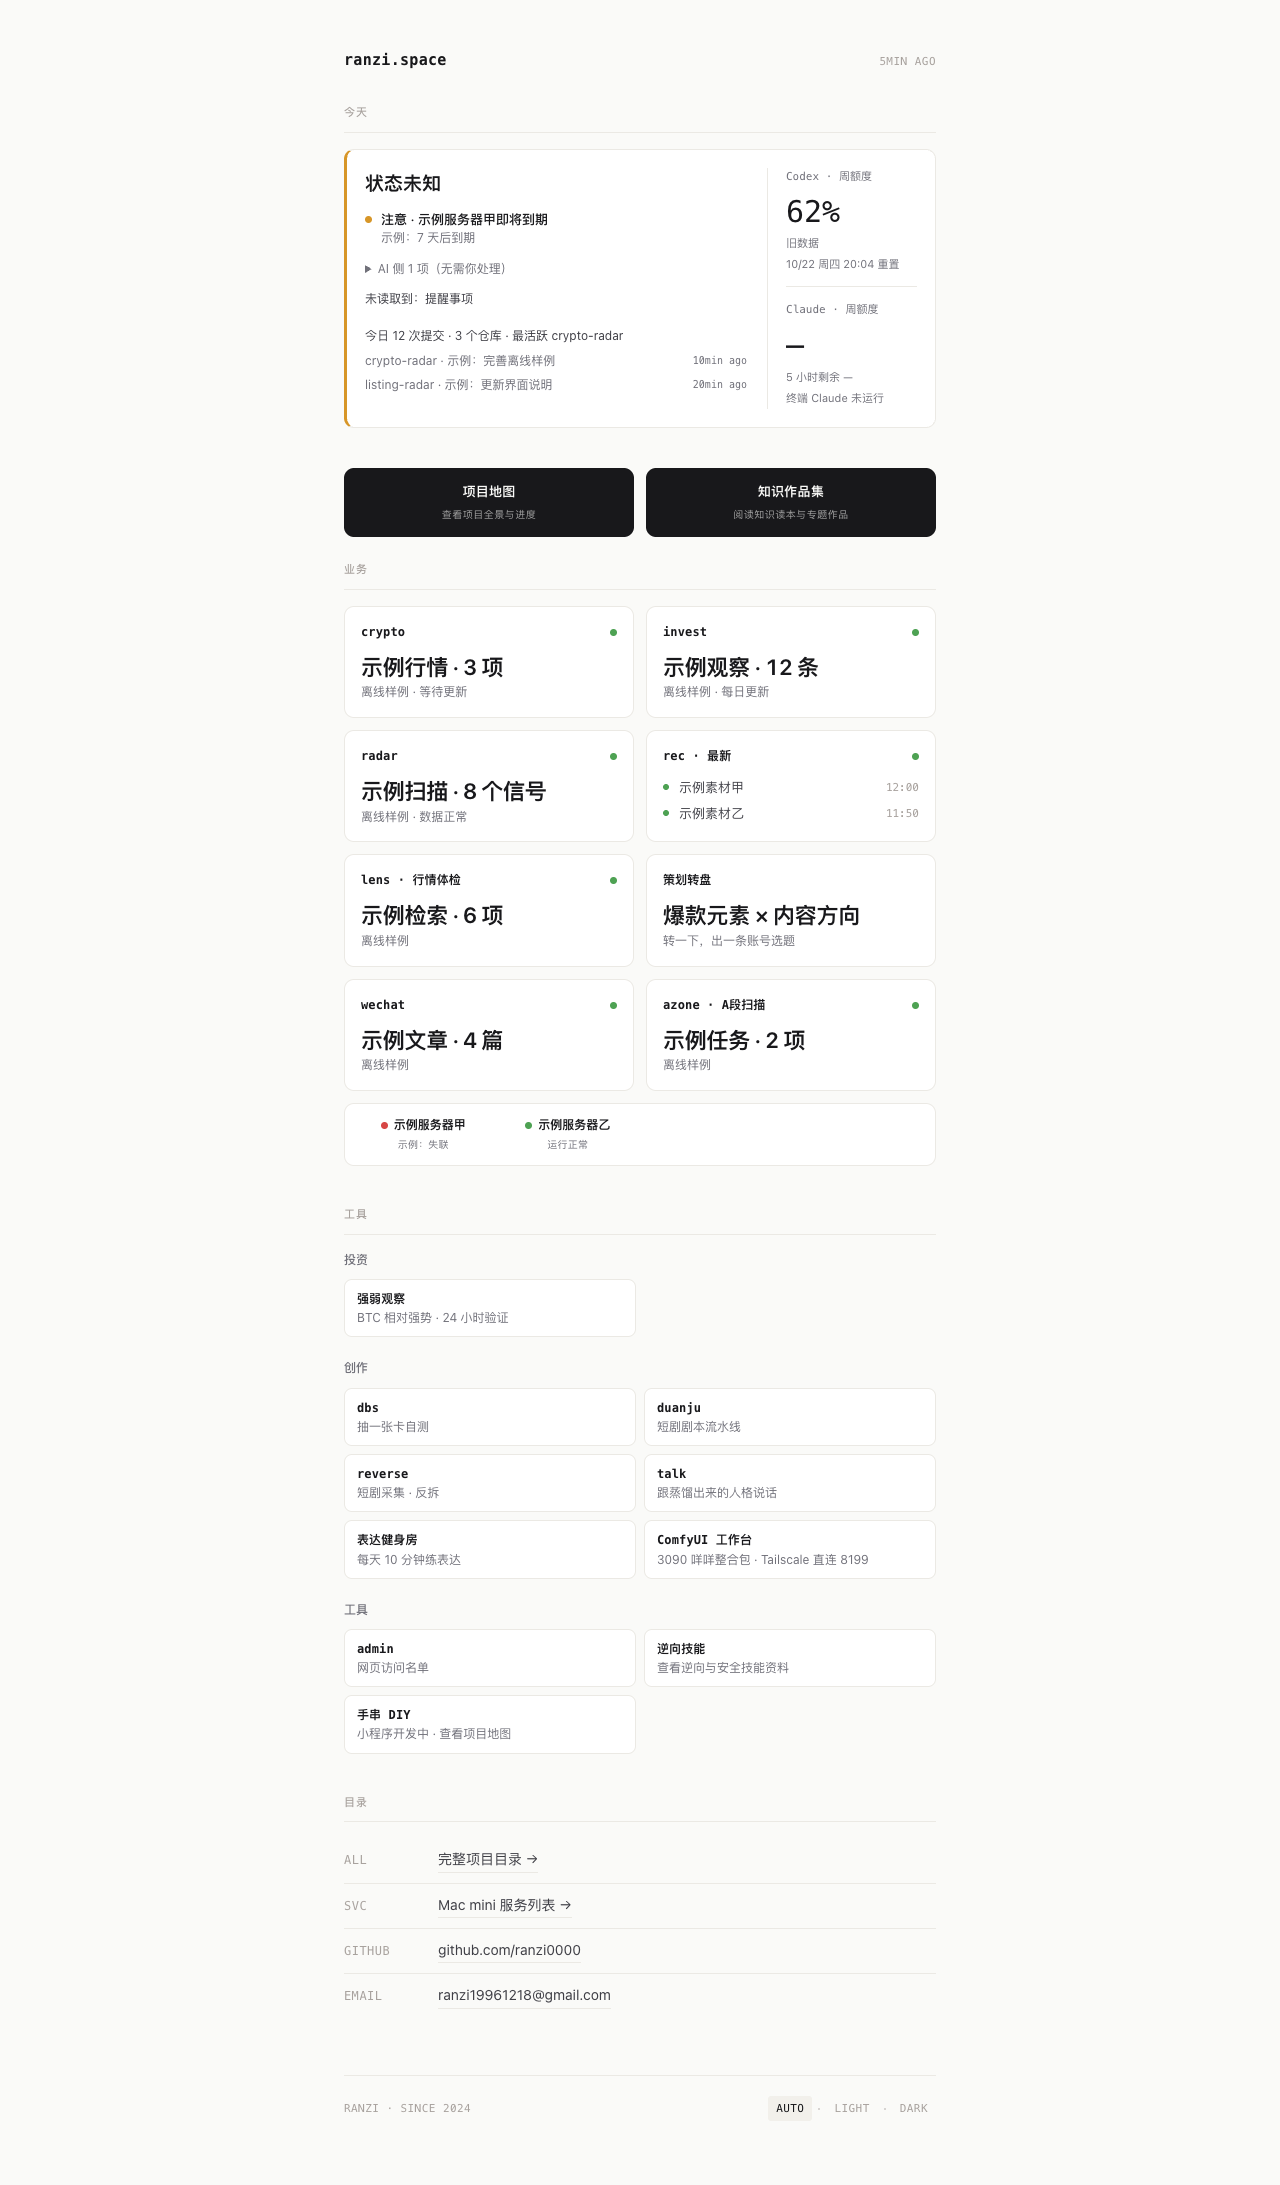
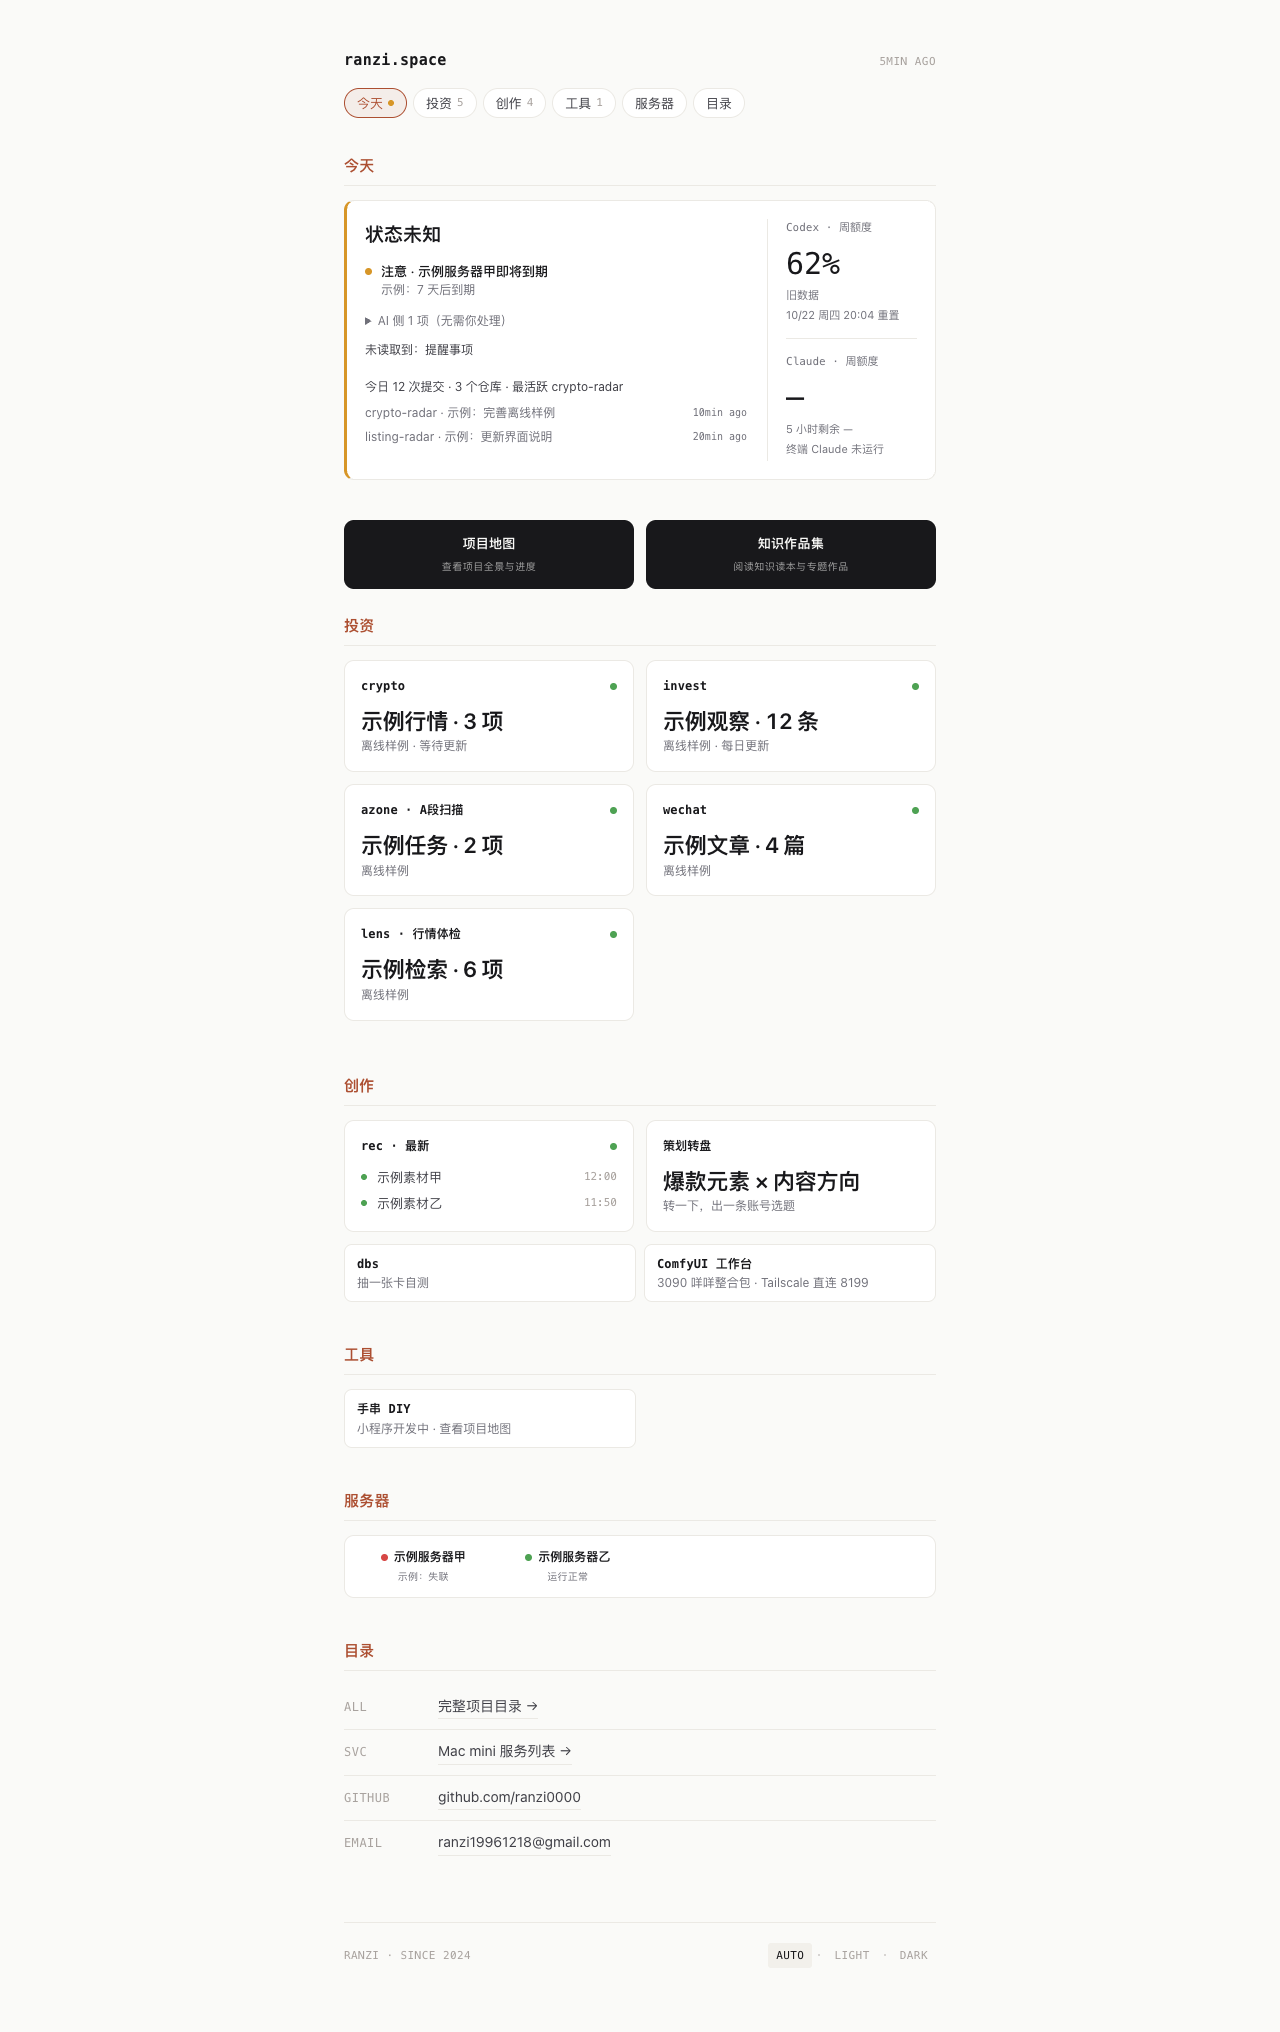
首页改版：按投资/创作/工具分区并加吸顶快捷标签；下线 8 个过期入口，组内重排顺序

diff --git a/index.html b/index.html
@@ -42,7 +42,7 @@ main {
 
 /* ─── Header ───────────────────────────────── */
 header {
-  margin-bottom: 32px;
+  margin-bottom: 16px;
   display: flex;
   align-items: baseline;
   justify-content: space-between;
@@ -87,6 +87,7 @@ body.stale .server-strip { opacity: 0.55; }
   background: var(--card);
   font-size: 13px;
   line-height: 1.5;
+  color: inherit;
   text-decoration: none;
 }
 .drift-banner[hidden] { display: none; }
@@ -135,8 +136,6 @@ body.stale .server-strip { opacity: 0.55; }
 .quota-label { margin: 0; font-family: var(--font-mono); color: var(--muted); font-size: 11px; }
 .quota-value { font-family: var(--font-mono); font-size: 30px; line-height: 1.3; margin: 7px 0 0; color: var(--fg); }
 .quota-state, .quota-reset, .quota-short { margin: 3px 0 0; font-size: 11px; color: var(--muted); overflow-wrap: anywhere; }
-.tool-group + .tool-group { margin-top: 22px; }
-.tool-heading { font-family: var(--font-mono); font-size: 12px; font-weight: 500; color: var(--muted); margin: 0 0 9px; }
 @media (max-width: 640px) {
   .today-panel { grid-template-columns: minmax(0, 1fr); gap: 16px; padding: 16px; }
   .quota-block { border-left: 0; border-top: 1px solid var(--border); padding: 12px 0 0; }
@@ -359,19 +358,84 @@ body.stale .server-strip { opacity: 0.55; }
 }
 
 /* ─── Section ───────────────────────────────── */
-section { margin-bottom: 40px; }
+section { margin-bottom: 40px; scroll-margin-top: 64px; }
 section:last-of-type { margin-bottom: 0; }
+section[hidden] { display: none; }
 
 .eyebrow {
+  display: flex;
+  align-items: baseline;
+  gap: 8px;
+  font-size: 15px;
+  font-weight: 600;
+  letter-spacing: 0.02em;
+  color: var(--accent);
+  margin: 0 0 14px;
+  padding-bottom: 8px;
+  border-bottom: 1px solid var(--border);
+}
+.group-section .grid:empty { display: none; }
+.section-empty { margin: 0; font-size: 12px; color: var(--faint); }
+.section-empty[hidden] { display: none; }
+
+/* ─── 快捷标签：吸顶，点击跳分区，滚动时高亮当前分区 ─── */
+.quick-tags {
+  position: sticky;
+  top: 0;
+  z-index: 10;
+  display: flex;
+  gap: 6px;
+  margin: -8px -24px 24px;
+  padding: calc(8px + env(safe-area-inset-top)) 24px 10px;
+  overflow-x: auto;
+  scrollbar-width: none;
+  background: color-mix(in srgb, var(--bg) 88%, transparent);
+  -webkit-backdrop-filter: blur(10px);
+  backdrop-filter: blur(10px);
+  border-bottom: 1px solid transparent;
+  transition: border-color 0.15s ease;
+}
+.quick-tags::-webkit-scrollbar { display: none; }
+.quick-tags.stuck { border-bottom-color: var(--border); }
+.quick-tags a {
+  flex-shrink: 0;
+  display: inline-flex;
+  align-items: center;
+  gap: 5px;
+  padding: 5px 12px;
+  border: 1px solid var(--border);
+  border-radius: 999px;
+  background: var(--card);
+  color: var(--fg-soft);
+  font-size: 13px;
+  line-height: 1.4;
+  text-decoration: none;
+  -webkit-tap-highlight-color: transparent;
+  transition: color 0.15s ease, border-color 0.15s ease, background-color 0.15s ease;
+}
+.quick-tags a:hover { border-color: var(--muted); }
+.quick-tags a[aria-current="true"] {
+  color: var(--accent);
+  border-color: var(--accent);
+  background: var(--accent-soft);
+}
+.quick-tags a[hidden] { display: none; }
+.quick-tags .tag-count {
   font-family: var(--font-mono);
   font-size: 11px;
-  font-weight: 500;
-  letter-spacing: 0.08em;
-  text-transform: uppercase;
   color: var(--faint);
-  margin: 0 0 16px;
-  padding-bottom: 10px;
-  border-bottom: 1px solid var(--border);
+}
+.quick-tags .tag-count:empty { display: none; }
+.quick-tags .tag-dot {
+  width: 6px;
+  height: 6px;
+  border-radius: 50%;
+  background: var(--status-warn);
+}
+.quick-tags .tag-dot[data-state="ok"] { background: var(--status-ok); }
+.quick-tags .tag-dot[data-state="alerts"] { background: var(--status-bad); }
+@media (max-width: 640px) {
+  .quick-tags { margin: -8px -16px 20px; padding-left: 16px; padding-right: 16px; }
 }
 
 /* ─── Server strip（云服务器状态条，数据来自 /api/summary.servers） ─── */
@@ -481,7 +545,17 @@ footer .meta { text-transform: uppercase; }
     <span class="refresh-meta" id="refresh-meta">—</span>
   </header>
 
-  <section aria-labelledby="today-heading">
+  <!-- 快捷标签：点击跳到对应分区，滚动时高亮当前分区；分区为空时连同标签一起隐藏 -->
+  <nav class="quick-tags" id="quick-tags" aria-label="快速定位">
+    <a href="#today" data-tag="today">今天<span class="tag-dot" id="tag-today-dot" aria-hidden="true"></span></a>
+    <a href="#invest" data-tag="invest">投资<span class="tag-count"></span></a>
+    <a href="#create" data-tag="create">创作<span class="tag-count"></span></a>
+    <a href="#tool" data-tag="tool">工具<span class="tag-count"></span></a>
+    <a href="#infra" data-tag="infra">服务器</a>
+    <a href="#directory" data-tag="directory">目录</a>
+  </nav>
+
+  <section id="today" aria-labelledby="today-heading">
     <h2 class="eyebrow" id="today-heading">今天</h2>
     <div class="today-panel" id="today-panel" data-state="unknown" aria-live="polite">
       <div class="today-copy">
@@ -521,26 +595,39 @@ footer .meta { text-transform: uppercase; }
     </a>
   </nav>
 
-  <section aria-labelledby="business-heading">
-    <h2 class="eyebrow" id="business-heading">业务</h2>
-  <div class="drift-banner" id="drift-banner" hidden>
-    <span class="drift-title"></span>
-    <span class="drift-detail"></span>
-  </div>
-    <!-- 活数据卡（dash.key 存在）由 JS 从 /projects.json 生成，按 dash.order 排 -->
-    <div class="grid" id="grid"></div>
+  <!-- 三个分组由 JS 从 /projects.json 按 dash.group 填充，组内按 dash.order 排：
+       活数据卡 / 大卡进 .grid，纯入口进 .entry-grid -->
+  <section id="invest" class="group-section" aria-labelledby="invest-heading">
+    <h2 class="eyebrow" id="invest-heading">投资</h2>
+    <div class="grid" data-cards="invest"></div>
+    <div class="entry-grid" data-entries="invest"></div>
+  </section>
+
+  <section id="create" class="group-section" aria-labelledby="create-heading">
+    <h2 class="eyebrow" id="create-heading">创作</h2>
+    <div class="grid" data-cards="create"></div>
+    <div class="entry-grid" data-entries="create"></div>
+  </section>
+
+  <section id="tool" class="group-section" aria-labelledby="tool-heading">
+    <h2 class="eyebrow" id="tool-heading">工具</h2>
+    <div class="grid" data-cards="tool"></div>
+    <div class="entry-grid" data-entries="tool"></div>
+  </section>
+
+  <section id="infra" aria-labelledby="infra-heading">
+    <h2 class="eyebrow" id="infra-heading">服务器</h2>
     <!-- 云服务器状态条：由 /api/summary.servers 渲染（IP/到期只在私库 dash-collector 维护） -->
     <div class="server-strip" id="server-strip" hidden></div>
+    <p class="section-empty" id="server-empty">等待采集数据</p>
   </section>
 
-  <section aria-labelledby="tools-heading">
-    <h2 class="eyebrow" id="tools-heading">工具</h2>
-    <!-- 纯入口卡（dash 无 key）由 JS 从 /projects.json 生成 -->
-    <div id="entry-grid"></div>
-  </section>
-
-  <section aria-labelledby="directory-heading">
+  <section id="directory" aria-labelledby="directory-heading">
     <h2 class="eyebrow" id="directory-heading">目录</h2>
+    <a class="drift-banner" id="drift-banner" href="/projects/" hidden>
+      <span class="drift-title"></span>
+      <span class="drift-detail"></span>
+    </a>
     <ul class="links">
       <li>
         <span class="label">all</span>
@@ -576,5 +663,6 @@ footer .meta { text-transform: uppercase; }
 
 <script src="/assets/theme.js"></script>
 <script type="module" src="/assets/home/data.js"></script>
+<script type="module" src="/assets/home/tags.js"></script>
 </body>
 </html>

diff --git a/assets/home/render.js b/assets/home/render.js
@@ -1,8 +1,7 @@
 import { STALE_SECONDS, classifyToday, quotaView } from './today.js';
 
 // DOM rendering and last-summary replay after a project-list rebuild.
-var grid = document.getElementById('grid');
-var entryGrid = document.getElementById('entry-grid');
+var GROUP_KEYS = ['invest', 'create', 'tool'];
 var serverStrip = document.getElementById('server-strip');
 var meta = document.getElementById('refresh-meta');
 var lastSummary = null;
@@ -47,31 +46,29 @@ function appendEntry(p, target) {
   target.appendChild(a);
 }
 
-// ── 卡片生成：show_on_dashboard=true 且带 dash 元数据的条目，按 dash.order 排 ──
-//    有 dash.key = 活数据大卡（进 #grid）；无 key 但 dash.big=true = 静态大卡
-//    （进 #grid，main 显示 dash.main 固定文案、无状态点）；其余按组进入 #entry-grid
+// ── 卡片生成：show_on_dashboard=true 且带 dash 元数据的条目，按 dash.group 分区、dash.order 排 ──
+//    有 dash.key = 活数据大卡；无 key 但 dash.big=true = 静态大卡（main 显示 dash.main 固定文案、
+//    无状态点）；两者进分区的 .grid，其余纯入口进分区的 .entry-grid。没有内容的分区连同快捷标签一起隐藏。
 function buildCards(data) {
   var entries = (data.projects || [])
     .filter(function(p) { return p.show_on_dashboard === true && p.dash; })
     .sort(function(a, b) { return (a.dash.order || 99) - (b.dash.order || 99); });
 
-  grid.innerHTML = '';
   var groups = {};
-  if (entryGrid) {
-    entryGrid.innerHTML = '';
-    [['invest', '投资'], ['create', '创作'], ['tool', '工具']].forEach(function(pair) {
-      var group = document.createElement('div');
-      group.className = 'tool-group';
-      group.innerHTML = '<h3 class="tool-heading"></h3><div class="entry-grid"></div>';
-      group.querySelector('h3').textContent = pair[1];
-      groups[pair[0]] = group.querySelector('.entry-grid');
-      entryGrid.appendChild(group);
-    });
-  }
+  GROUP_KEYS.forEach(function(key) {
+    var cards = document.querySelector('[data-cards="' + key + '"]');
+    var list = document.querySelector('[data-entries="' + key + '"]');
+    cards.innerHTML = '';
+    list.innerHTML = '';
+    groups[key] = { cards: cards, entries: list, count: 0 };
+  });
 
   entries.forEach(function(p) {
     var d = p.dash;
-    if (!d.key && !d.big) { appendEntry(p, groups[d.group] || groups.tool); return; }
+    var g = groups[d.group] || groups.tool;
+    g.count += 1;
+    if (!d.key && !d.big) { appendEntry(p, g.entries); return; }
+    var grid = g.cards;
 
     var a = document.createElement('a');
     a.className = 'card';
@@ -98,6 +95,15 @@ function buildCards(data) {
     }
     grid.appendChild(a);
   });
+
+  GROUP_KEYS.forEach(function(key) {
+    var empty = groups[key].count === 0;
+    document.getElementById(key).hidden = empty;
+    var tag = document.querySelector('#quick-tags [data-tag="' + key + '"]');
+    if (!tag) return;
+    tag.hidden = empty;
+    tag.querySelector('.tag-count').textContent = empty ? '' : String(groups[key].count);
+  });
 }
 
 // ── 云服务器状态条（数据全部来自 summary.servers，页面本身不含服务器信息） ──
@@ -117,6 +123,7 @@ function renderServers(sv) {
     serverStrip.appendChild(cell);
   });
   serverStrip.hidden = false;
+  document.getElementById('server-empty').hidden = true;
 }
 
 export function renderProjects(data) {
@@ -163,7 +170,7 @@ export function renderSummary(data, replay = false) {
   if (!replay) summaryOffline = false;
   renderToday(data);
   (Array.isArray(data.projects) ? data.projects : []).forEach(function(p) {
-    var card = grid.querySelector('[data-project="' + p.key + '"]');
+    var card = document.querySelector('.grid [data-project="' + p.key + '"]');
     if (!card) return;
     if (p.href) card.setAttribute('href', p.href);
 
@@ -218,6 +225,8 @@ export function renderOffline() {
 }
 
 export function renderProjectsError(e) {
+  var grid = document.querySelector('[data-cards="invest"]');
+  document.getElementById('invest').hidden = false;
   grid.innerHTML = '';
   var err = document.createElement('div');
   err.className = 'grid-error';
@@ -230,6 +239,7 @@ function renderToday(data) {
   var panel = document.getElementById('today-panel');
   var view = classifyToday(data, Date.now(), summaryOffline);
   panel.dataset.state = view.state;
+  document.getElementById('tag-today-dot').dataset.state = view.state;
   document.getElementById('today-status').textContent = {
     ok: view.aiItems.length ? '无需你处理' : '一切正常', alerts: view.items.length + ' 项待你处理', unknown: '状态未知',
   }[view.state];

diff --git a/assets/home/tags.js b/assets/home/tags.js
@@ -1,0 +1,68 @@
+// Quick tags: jump to a section on click, highlight the section currently in view.
+var bar = document.getElementById('quick-tags');
+var tags = Array.prototype.slice.call(bar.querySelectorAll('a[data-tag]'));
+var reduceMotion = window.matchMedia('(prefers-reduced-motion: reduce)');
+var current = '';
+// 点击标签后锁定该标签高亮，直到用户自己滑动——尾部分区短、页面滚不到它顶部时，不让「滚到底」规则抢走高亮
+var pinned = '';
+
+tags.forEach(function(tag) {
+  tag.addEventListener('click', function(e) {
+    var target = document.getElementById(tag.dataset.tag);
+    if (!target) return;
+    e.preventDefault();
+    pinned = tag.dataset.tag;
+    setCurrent(pinned);
+    target.scrollIntoView({ behavior: reduceMotion.matches ? 'auto' : 'smooth', block: 'start' });
+    history.replaceState(null, '', '#' + tag.dataset.tag);
+  });
+});
+
+function setCurrent(key) {
+  if (key === current) return;
+  current = key;
+  tags.forEach(function(tag) {
+    if (tag.dataset.tag === key) {
+      tag.setAttribute('aria-current', 'true');
+      // 窄屏标签栏可横向滚动：保证高亮的标签在可视范围内
+      var left = tag.offsetLeft - bar.offsetLeft;
+      if (left < bar.scrollLeft || left + tag.offsetWidth > bar.scrollLeft + bar.clientWidth) {
+        bar.scrollTo({ left: left - 16, behavior: reduceMotion.matches ? 'auto' : 'smooth' });
+      }
+    } else {
+      tag.removeAttribute('aria-current');
+    }
+  });
+}
+
+// 以标签栏下沿为基准线：最后一个顶部越过基准线的可见分区即当前分区；滚到底时取最后一个
+function update() {
+  bar.classList.toggle('stuck', bar.getBoundingClientRect().top <= 0 && window.scrollY > 0);
+  if (pinned) return;
+  // 留 32px 余量：跳转后分区顶部停在 scroll-margin-top（64px）处，略低于标签栏下沿
+  var line = bar.getBoundingClientRect().bottom + 32;
+  var key = '';
+  tags.forEach(function(tag) {
+    var section = document.getElementById(tag.dataset.tag);
+    if (!section || section.hidden || tag.hidden) return;
+    if (section.getBoundingClientRect().top <= line) key = tag.dataset.tag;
+  });
+  var atBottom = window.innerHeight + window.scrollY >= document.documentElement.scrollHeight - 2;
+  if (atBottom) {
+    var visible = tags.filter(function(tag) { return !tag.hidden; });
+    if (visible.length) key = visible[visible.length - 1].dataset.tag;
+  }
+  setCurrent(key || tags[0].dataset.tag);
+}
+
+var pending = false;
+window.addEventListener('scroll', function() {
+  if (pending) return;
+  pending = true;
+  requestAnimationFrame(function() { pending = false; update(); });
+}, { passive: true });
+window.addEventListener('resize', update);
+['wheel', 'touchstart', 'keydown'].forEach(function(type) {
+  window.addEventListener(type, function() { pinned = ''; }, { passive: true });
+});
+update();

diff --git a/scripts/verify_p3.py b/scripts/verify_p3.py
@@ -42,9 +42,10 @@ def main():
                             page.wait_for_function("document.querySelector('#refresh-meta').textContent === '5min ago'")
                             page.evaluate("document.fonts.ready")
                             assert page.locator('#today-panel').get_attribute('data-state') == state
-                            assert page.locator('#grid .card').count() == 8
-                            assert page.locator('#entry-grid .entry').count() == 10
-                            assert page.locator('.tool-heading').all_text_contents() == ['投资', '创作', '工具']
+                            assert page.locator('.grid .card').count() == 7
+                            assert page.locator('.entry-grid .entry').count() == 3
+                            assert page.locator('.group-section:visible .eyebrow').all_text_contents() == ['投资', '创作', '工具']
+                            assert page.locator('#quick-tags a:visible').all_text_contents() == ['今天', '投资5', '创作4', '工具1', '服务器', '目录']
                             assert page.locator('#today-latest li').count() == (0 if fixture == 'error' else 2)
                             assert page.locator('#quota-value').inner_text() == ('—' if fixture == 'error' else '62%')
                             assert page.locator('#quota-state').inner_text() == ({'unknown': '旧数据', 'error': '未读取到'}.get(fixture, '剩余'))
